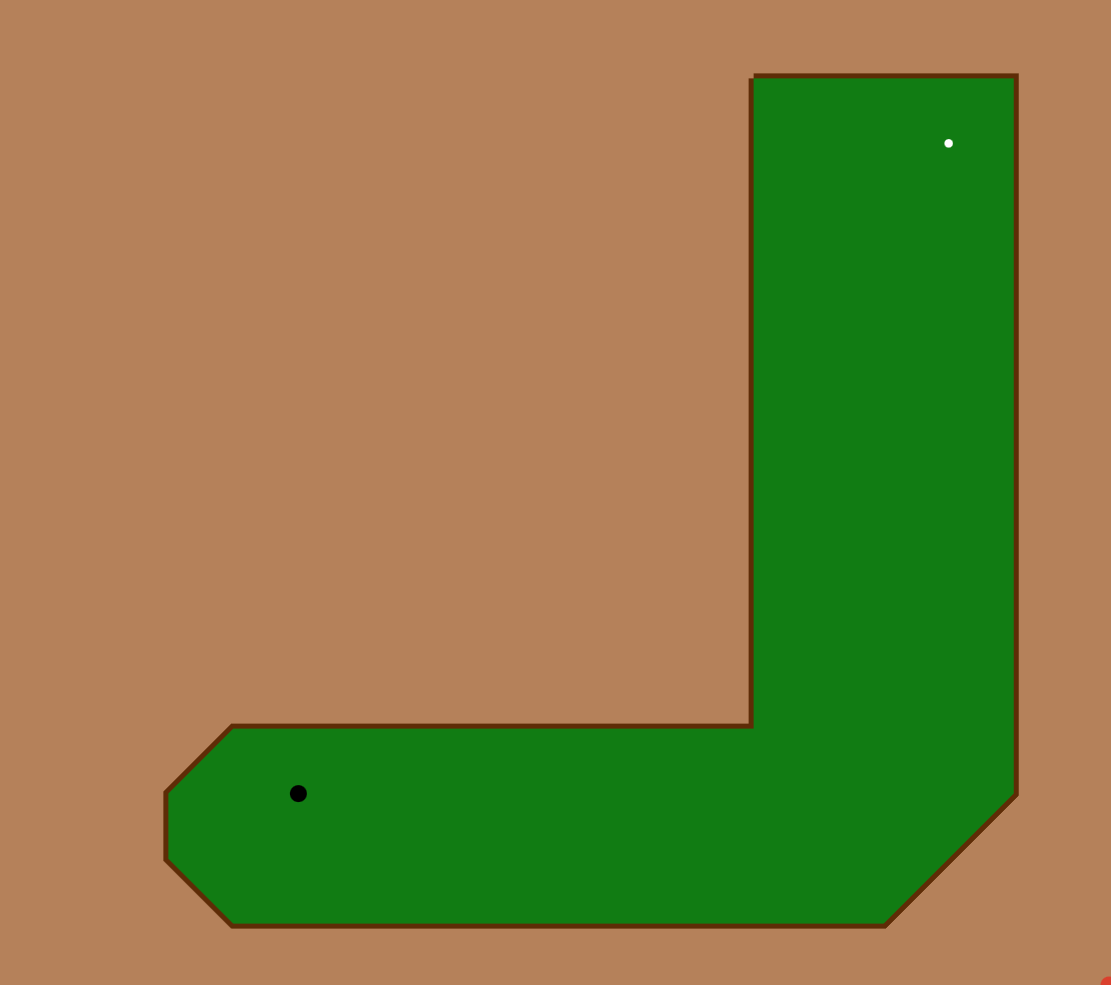
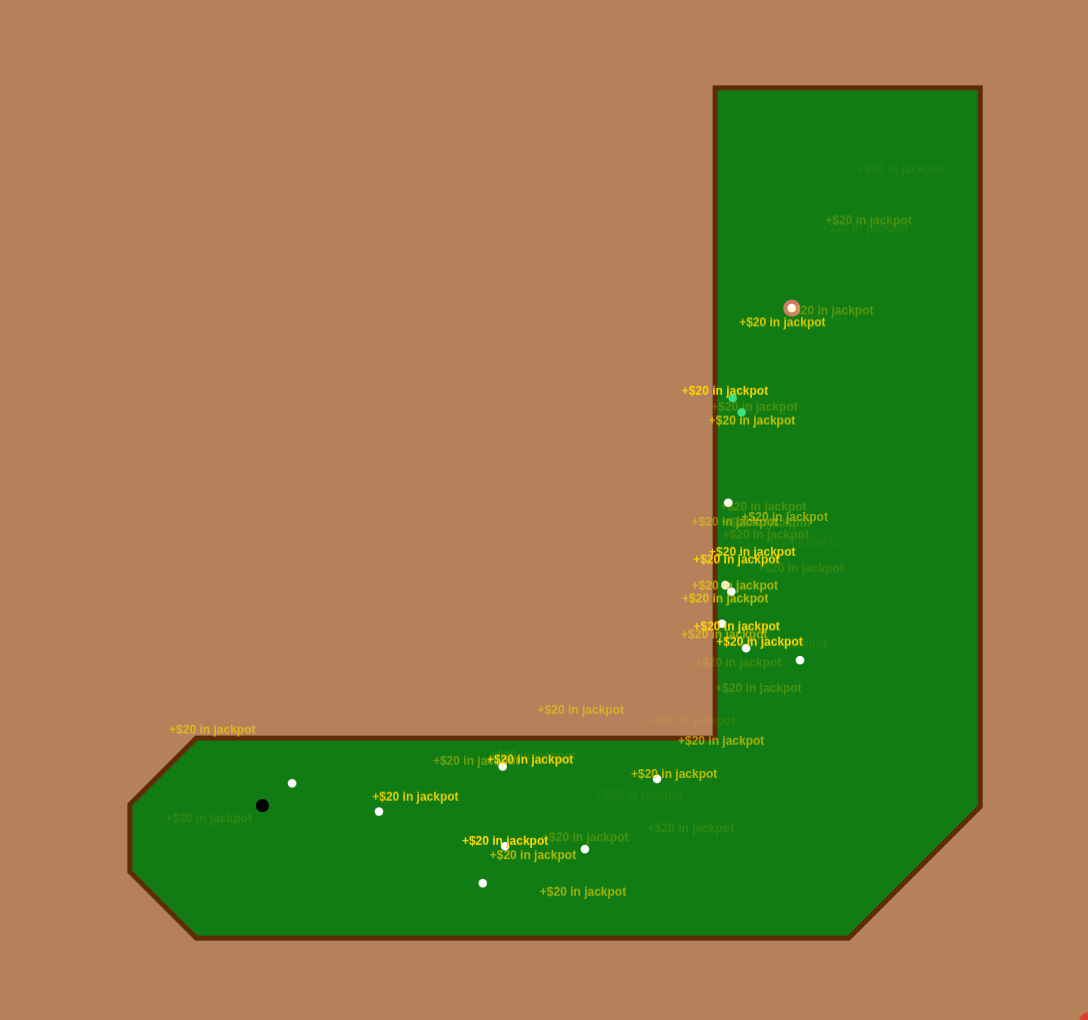
README

diff --git a/index.js b/index.js
@@ -583,7 +583,7 @@ function _displayTop(msg, color) {
     const e = $(`<div class="topMessage">${msg}</div>`)
     if (color) e.css({"color": color})
     $("#playarea").append(e)
-    //setTimeout(() => e.remove(), 4000)
+    setTimeout(() => e.remove(), 4000)
 }
 
 function displayBall(ball, msg, color) {

diff --git a/README.md b/README.md
@@ -1,9 +1,9 @@
-[![](screenshot.png)](https://za3k.github.io/hack-a-golf/)
+[![](screenshot.png)](https://za3k.github.io/idle-golf/)
 
-A simple minigolf game. Works on mobile or with a mouse. [Play online](https://za3k.github.io/hack-a-golf/) here.
+An idle game where you play mini-golf. Takes about 30 minutes to finish. Works on mobile or with a mouse.
 
-The demo has one hole only.
-
-Try [screensaver mode](https://za3k.github.io/hack-a-golf/index.html?screensaver) too.
+[Play online](https://za3k.github.io/idle-golf/) here.
 
 Written by [Zachary "za3k" Vance](https://za3k.com) as part of Hack-a-Day. [Hack-a-Day](https://za3k.com/hackaday) is a challenge to do one project every day in November.
+
+Thanks to Zaraya for playtesting.
